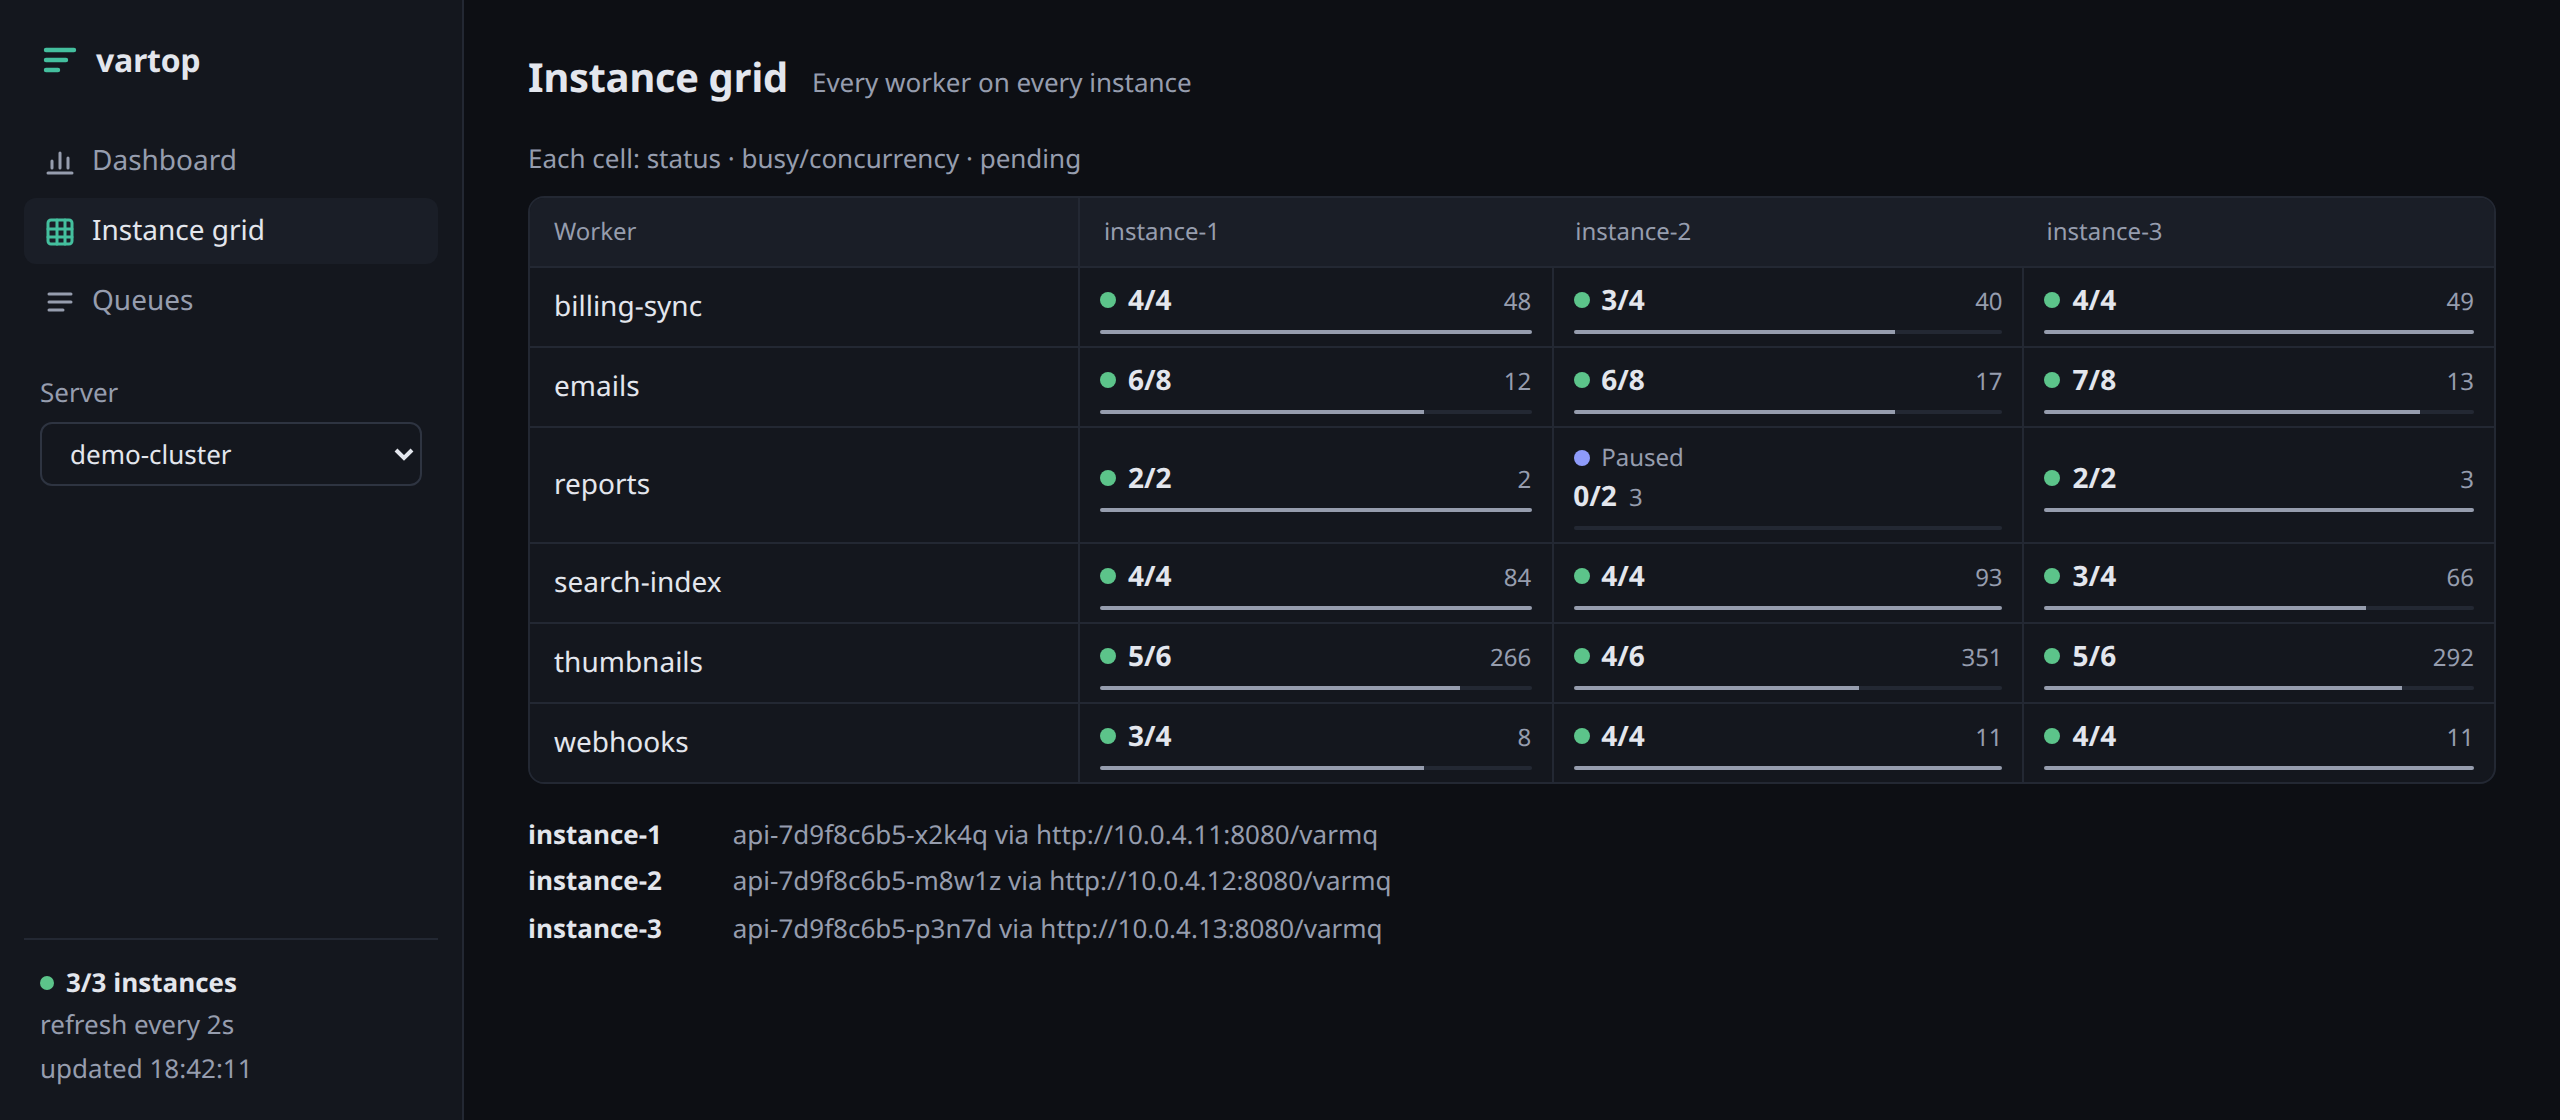
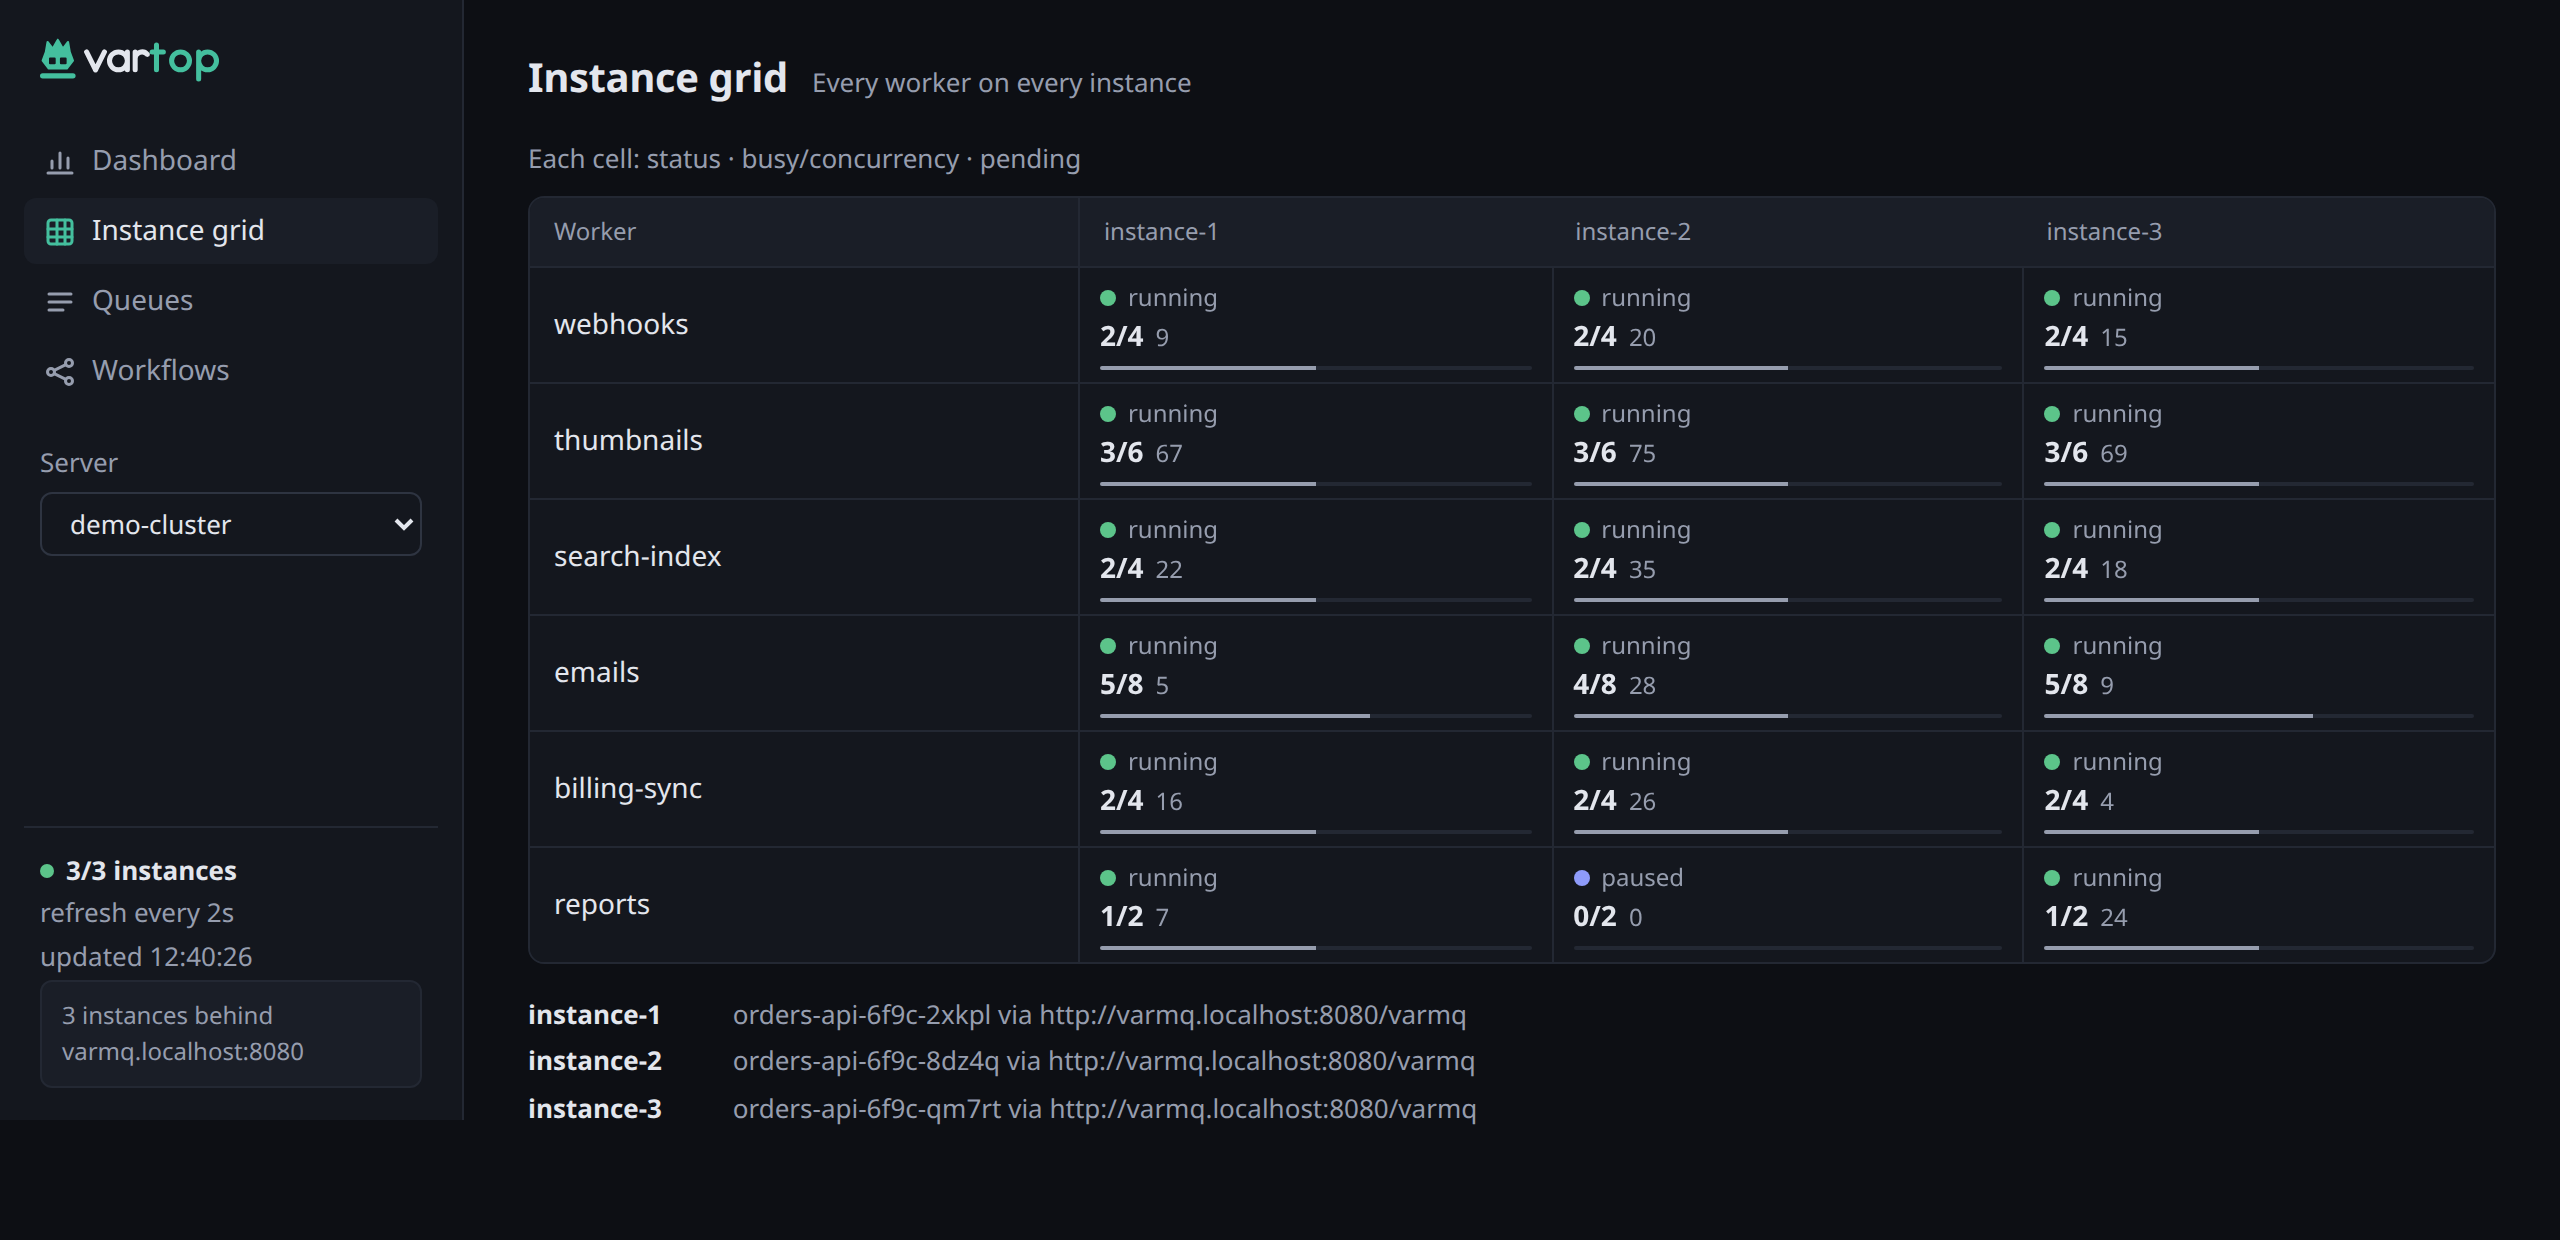
docs: retake screenshots, sync tour text
All 14 shots predated Lookout logo (#23); dashboard, worker, grid and
chart-hover also predated sources graph (#15), trouble-first dashboard
(#17), workflow tabs (#18). New demo: 3 fake instances behind one
balancer, 8 days seeded history, live counters.

Tour: failed/min column, Order switch, worker Sources. Alt texts match
new shots. DESIGN.md provenance updated.

diff --git a/docs/tour.md b/docs/tour.md
@@ -4,23 +4,23 @@
 
 <picture>
   <source media="(prefers-color-scheme: dark)" srcset="images/dashboard-dark.png">
-  <img alt="The vartop dashboard: completed/s, failed/min, pending and workers by status for a server of three instances, with a row and a 10-minute trend per worker" src="images/dashboard-light.png">
+  <img alt="The vartop dashboard: completed/s, failed/min, pending and workers by status for a server of three instances behind one load balancer, then one row per worker, failing ones first, each with its failed/min and a 10-minute trend" src="images/dashboard-light.png">
 </picture>
 
-One row per worker, merged across every instance (or one instance, from the **Instance** picker), with its status, concurrency, busy and idle workers, pending jobs and a 10-minute trend. Tick several workers to pause or resume them together. The header says how many instances answered, and here, that three of them answered behind one load-balancer URL.
+One row per worker, merged across every instance (or one instance, from the **Instance** picker), with its status, concurrency, busy and idle workers, pending jobs, failed jobs per minute and a 10-minute trend. **Order** puts trouble first: failing workers, then paused or stopped ones that have pending jobs, then the rest. It can also sort by name, pending or failed. Tick several workers to pause or resume them together. The sidebar says how many instances answered, and here, that three of them answered behind one load-balancer URL.
 
 ## Worker page
 
 <picture>
   <source media="(prefers-color-scheme: dark)" srcset="images/worker-dark.png">
-  <img alt="A worker page: completed, successful, failed and success rate; a 7-day completed/s chart with a daily rhythm; a 24-hour failed/s chart; the concurrency slider and the pause, resume, restart and stop buttons" src="images/worker-light.png">
+  <img alt="A worker page: completed, successful, failed and success rate; its two sources and the priority strategy; a 7-day completed/s chart with a daily rhythm, quieter weekend days and one short dip; a 24-hour failed/s chart; the concurrency slider and the Pause and Stop buttons" src="images/worker-light.png">
 </picture>
 
-Click a worker for its totals and success rate, its two charts, and its controls. Each chart has its own span: **1h** from the stored polls, **24h** from 5-minute buckets, and **7d**, **30d** (or the server's own [`history`](configuration.md#schema), like `14d`) merged into longer steps. Hovering a chart shows how many instances answered and, on 1h, the poll's time and value; on longer spans, the exact window, its average and its peak:
+Click a worker for its totals and success rate, its sources, its two charts, and its controls. **Sources** draws the queues and topics that the worker pulls from, in its order, with each one's priority and pending jobs, and says how its strategy picks among them. Each chart has its own span: **1h** from the stored polls, **24h** from 5-minute buckets, and **7d**, **30d** (or the server's own [`history`](configuration.md#schema), like `14d`) merged into longer steps. Hovering a chart shows how many instances answered and, on 1h, the poll's time and value; on longer spans, the exact window, its average and its peak:
 
 <picture>
   <source media="(prefers-color-scheme: dark)" srcset="images/chart-hover-dark.png">
-  <img alt="Hovering the 7-day chart: Sun 1 Nov 17:00–17:15 · avg 38.3/s · peak 39.3/s · 3/3 instances" src="images/chart-hover-light.png">
+  <img alt="Hovering the 7-day chart: Tue 10 Nov 11:00–11:15 · avg 126.9/s · peak 134.2/s · 3/3 instances" src="images/chart-hover-light.png">
 </picture>
 
 The concurrency slider sets the pool size per instance, applied when you let go; **Pause**, **Resume**, **Restart** and **Stop** act on every instance shown.

diff --git a/DESIGN.md b/DESIGN.md
@@ -153,7 +153,7 @@ Stack constraint shapes the system: one Go binary, `html/template` + vendored ht
 - SVG stroke icons (1.5 stroke, round caps), no glyph icons.
 - Mono only for IDs, payloads, errors.
 
-**Imagery and raster provenance.** No generated imagery; the UI has none. `docs/images/*.png` (README shots, dark + light) are Playwright captures: Chrome, 1280x560 viewport, DPR 2, fullPage; `chart-hover-*` hovers the first chart element at 42% width. Subject: `vartop web` reading a synthetic store; a throwaway Go seeder wrote 8 days of daily-rhythm ticks for server "demo-cluster" (3 instances, 10.0.4.11-13; workers billing-sync, emails, thumbnails, webhooks, reports [paused on instance-2], search-index), then kept appending live ticks. Captured 2026-11-05.
+**Imagery and raster provenance.** No generated imagery; the UI has none. `docs/images/*.png` (README and docs shots, dark + light) are headless Chrome captures over CDP: 1280x560 viewport, DPR 2, full page, `prefers-color-scheme` emulated; `chart-hover-*` hovers the first chart at 42% width and clips to it. Subject: `vartop web` (interval 2s, history 7d) on server "demo-cluster": three `fleettest` fake VarMQ instances (orders-api-6f9c-*) behind a round-robin balancer at http://varmq.localhost:8080/varmq. A throwaway Go test seeded 8 days of one-a-minute polls (work-hours hump, quieter weekend, a 40-minute thumbnails dip two days back), then advanced the fakes' counters live; workers billing-sync, emails, reports (paused on instance-2), search-index, thumbnails, webhooks; queues and jobs from `fleettest.SampleJobs`, workflows from `fleettest.SampleWorkflows`. Job and workflow shots taken in the first minute, the rest after 10 minutes of live polls. Captured 2026-11-14.
 
 ## Colors
 

diff --git a/README.md b/README.md
@@ -26,7 +26,7 @@ and pause, resume, restart, stop or resize it, from your browser or the command 
 
 <picture>
   <source media="(prefers-color-scheme: dark)" srcset="docs/images/dashboard-dark.png">
-  <img alt="The vartop dashboard: completed/s, failed/min, pending and workers by status for a server of three instances, with a row and a 10-minute trend per worker" src="docs/images/dashboard-light.png">
+  <img alt="The vartop dashboard: completed/s, failed/min, pending and workers by status for a server of three instances behind one load balancer, then one row per worker, failing ones first, each with its failed/min and a 10-minute trend" src="docs/images/dashboard-light.png">
 </picture>
 
 ## What is vartop?
